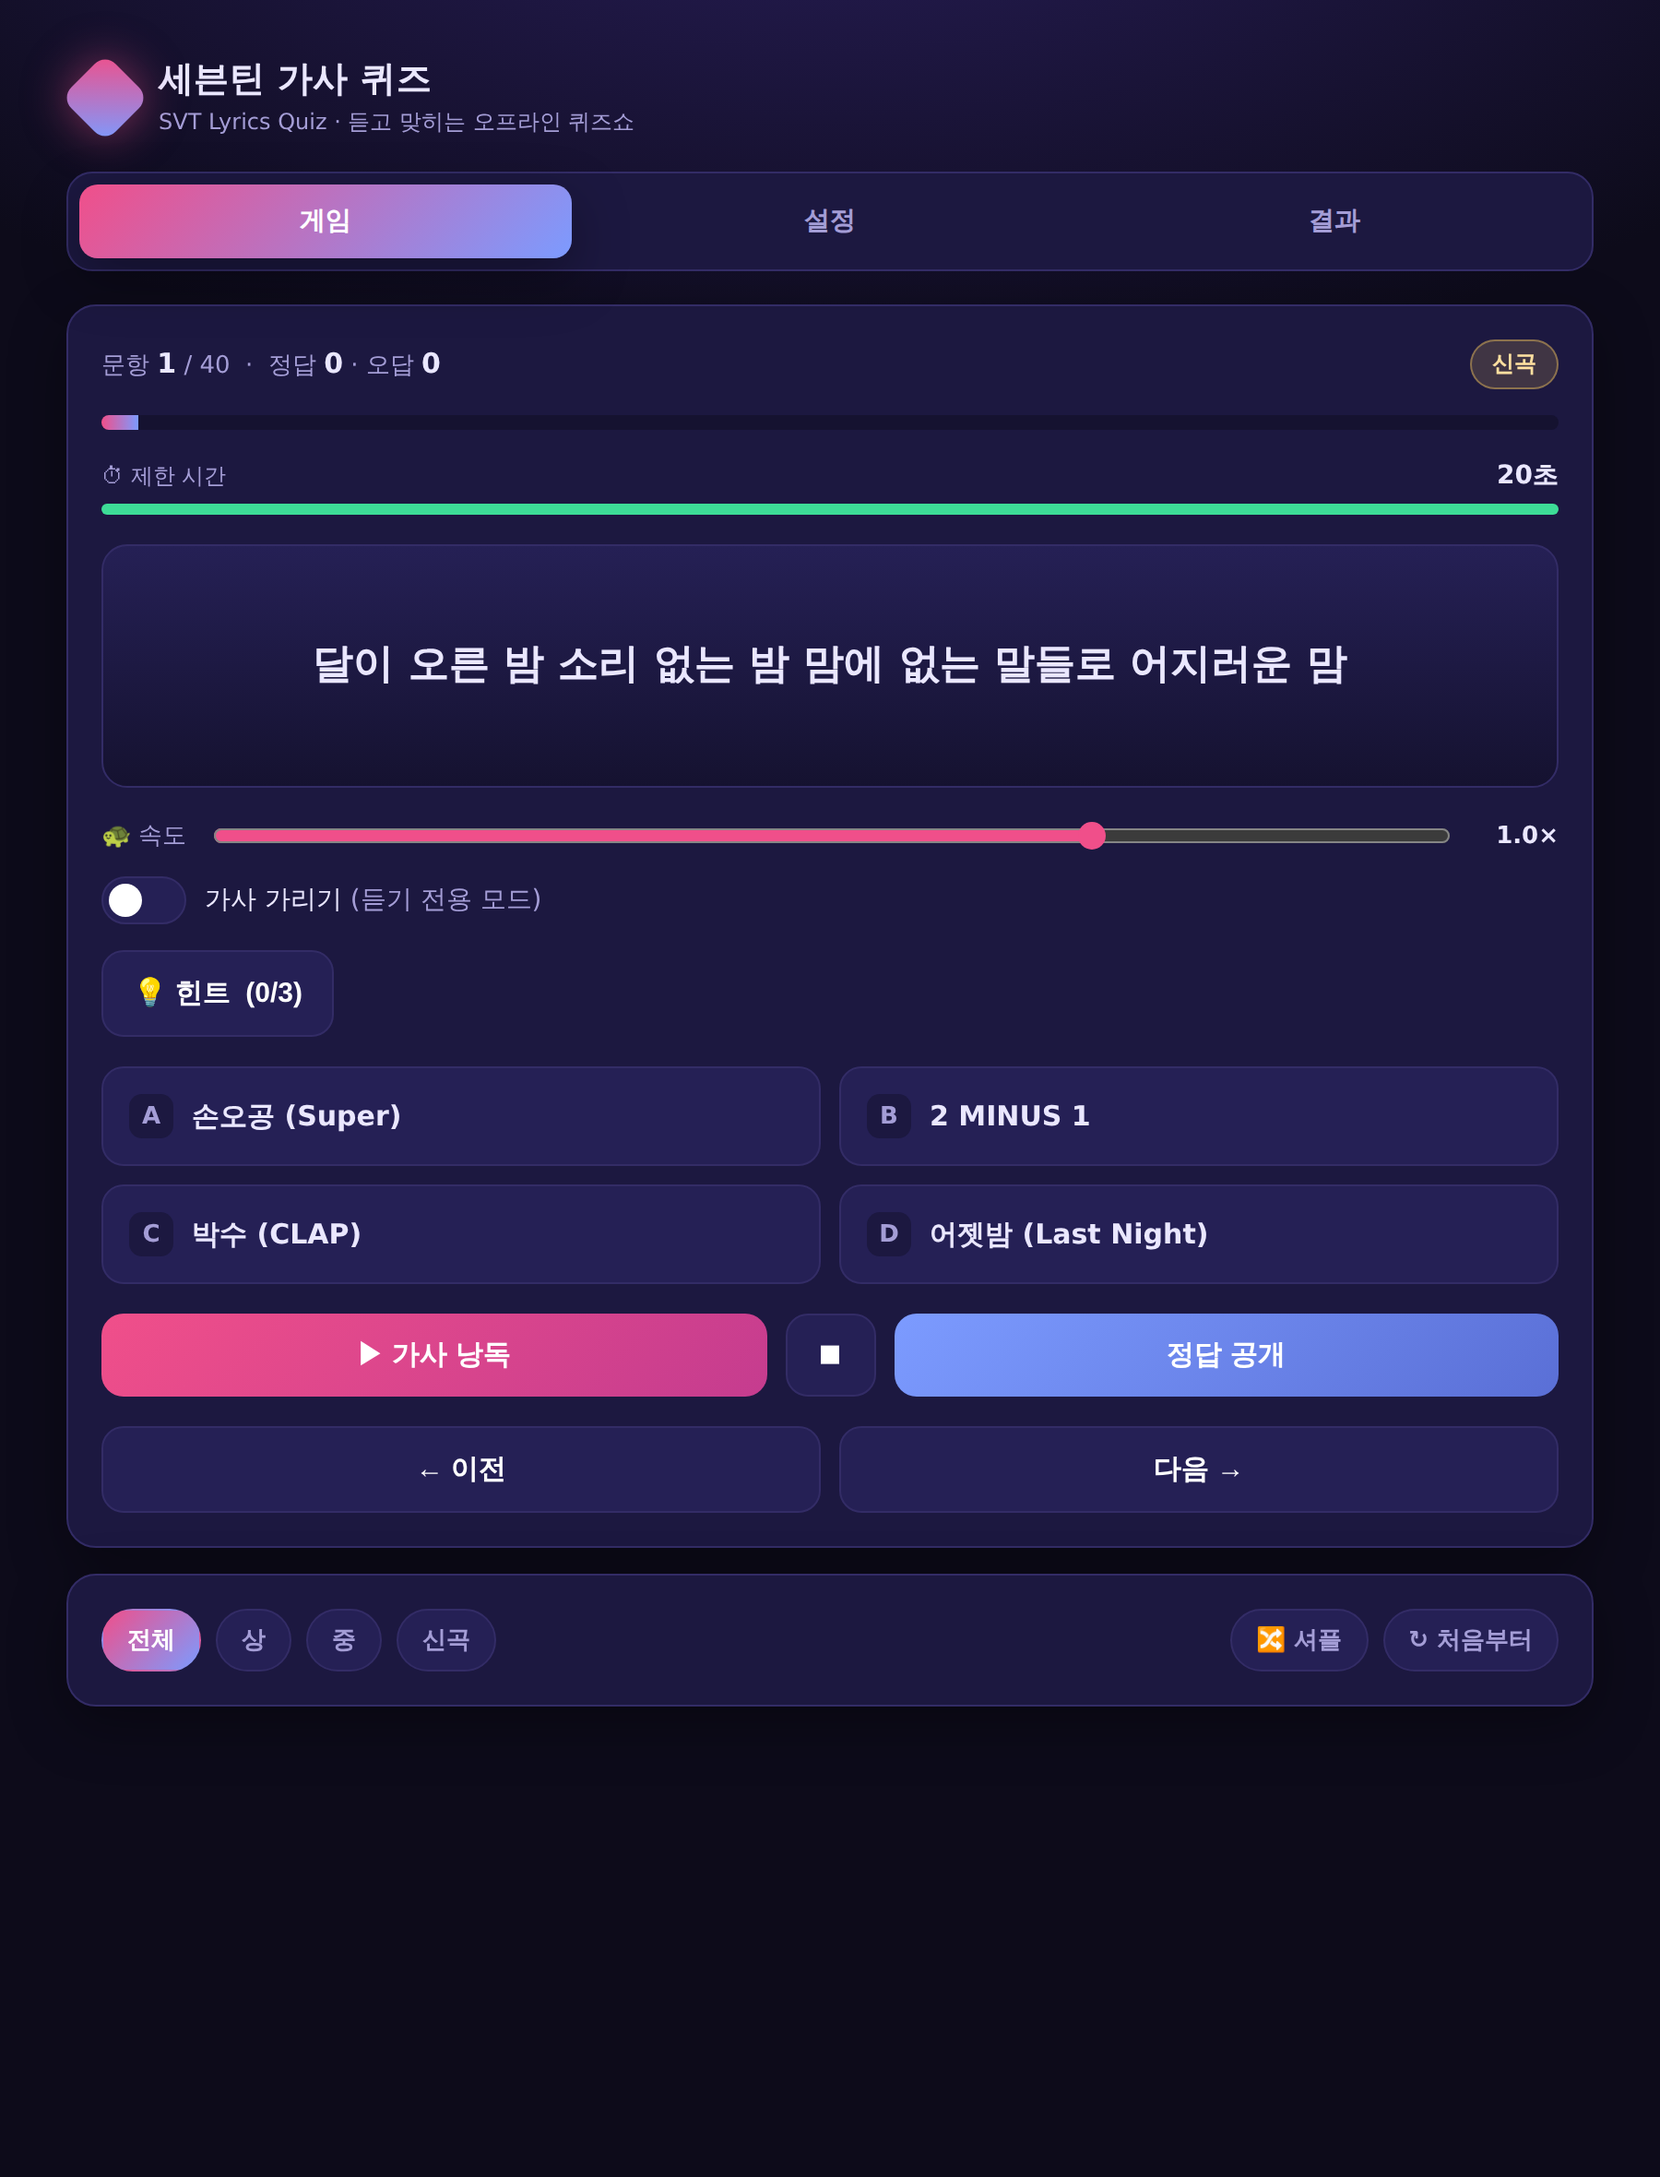
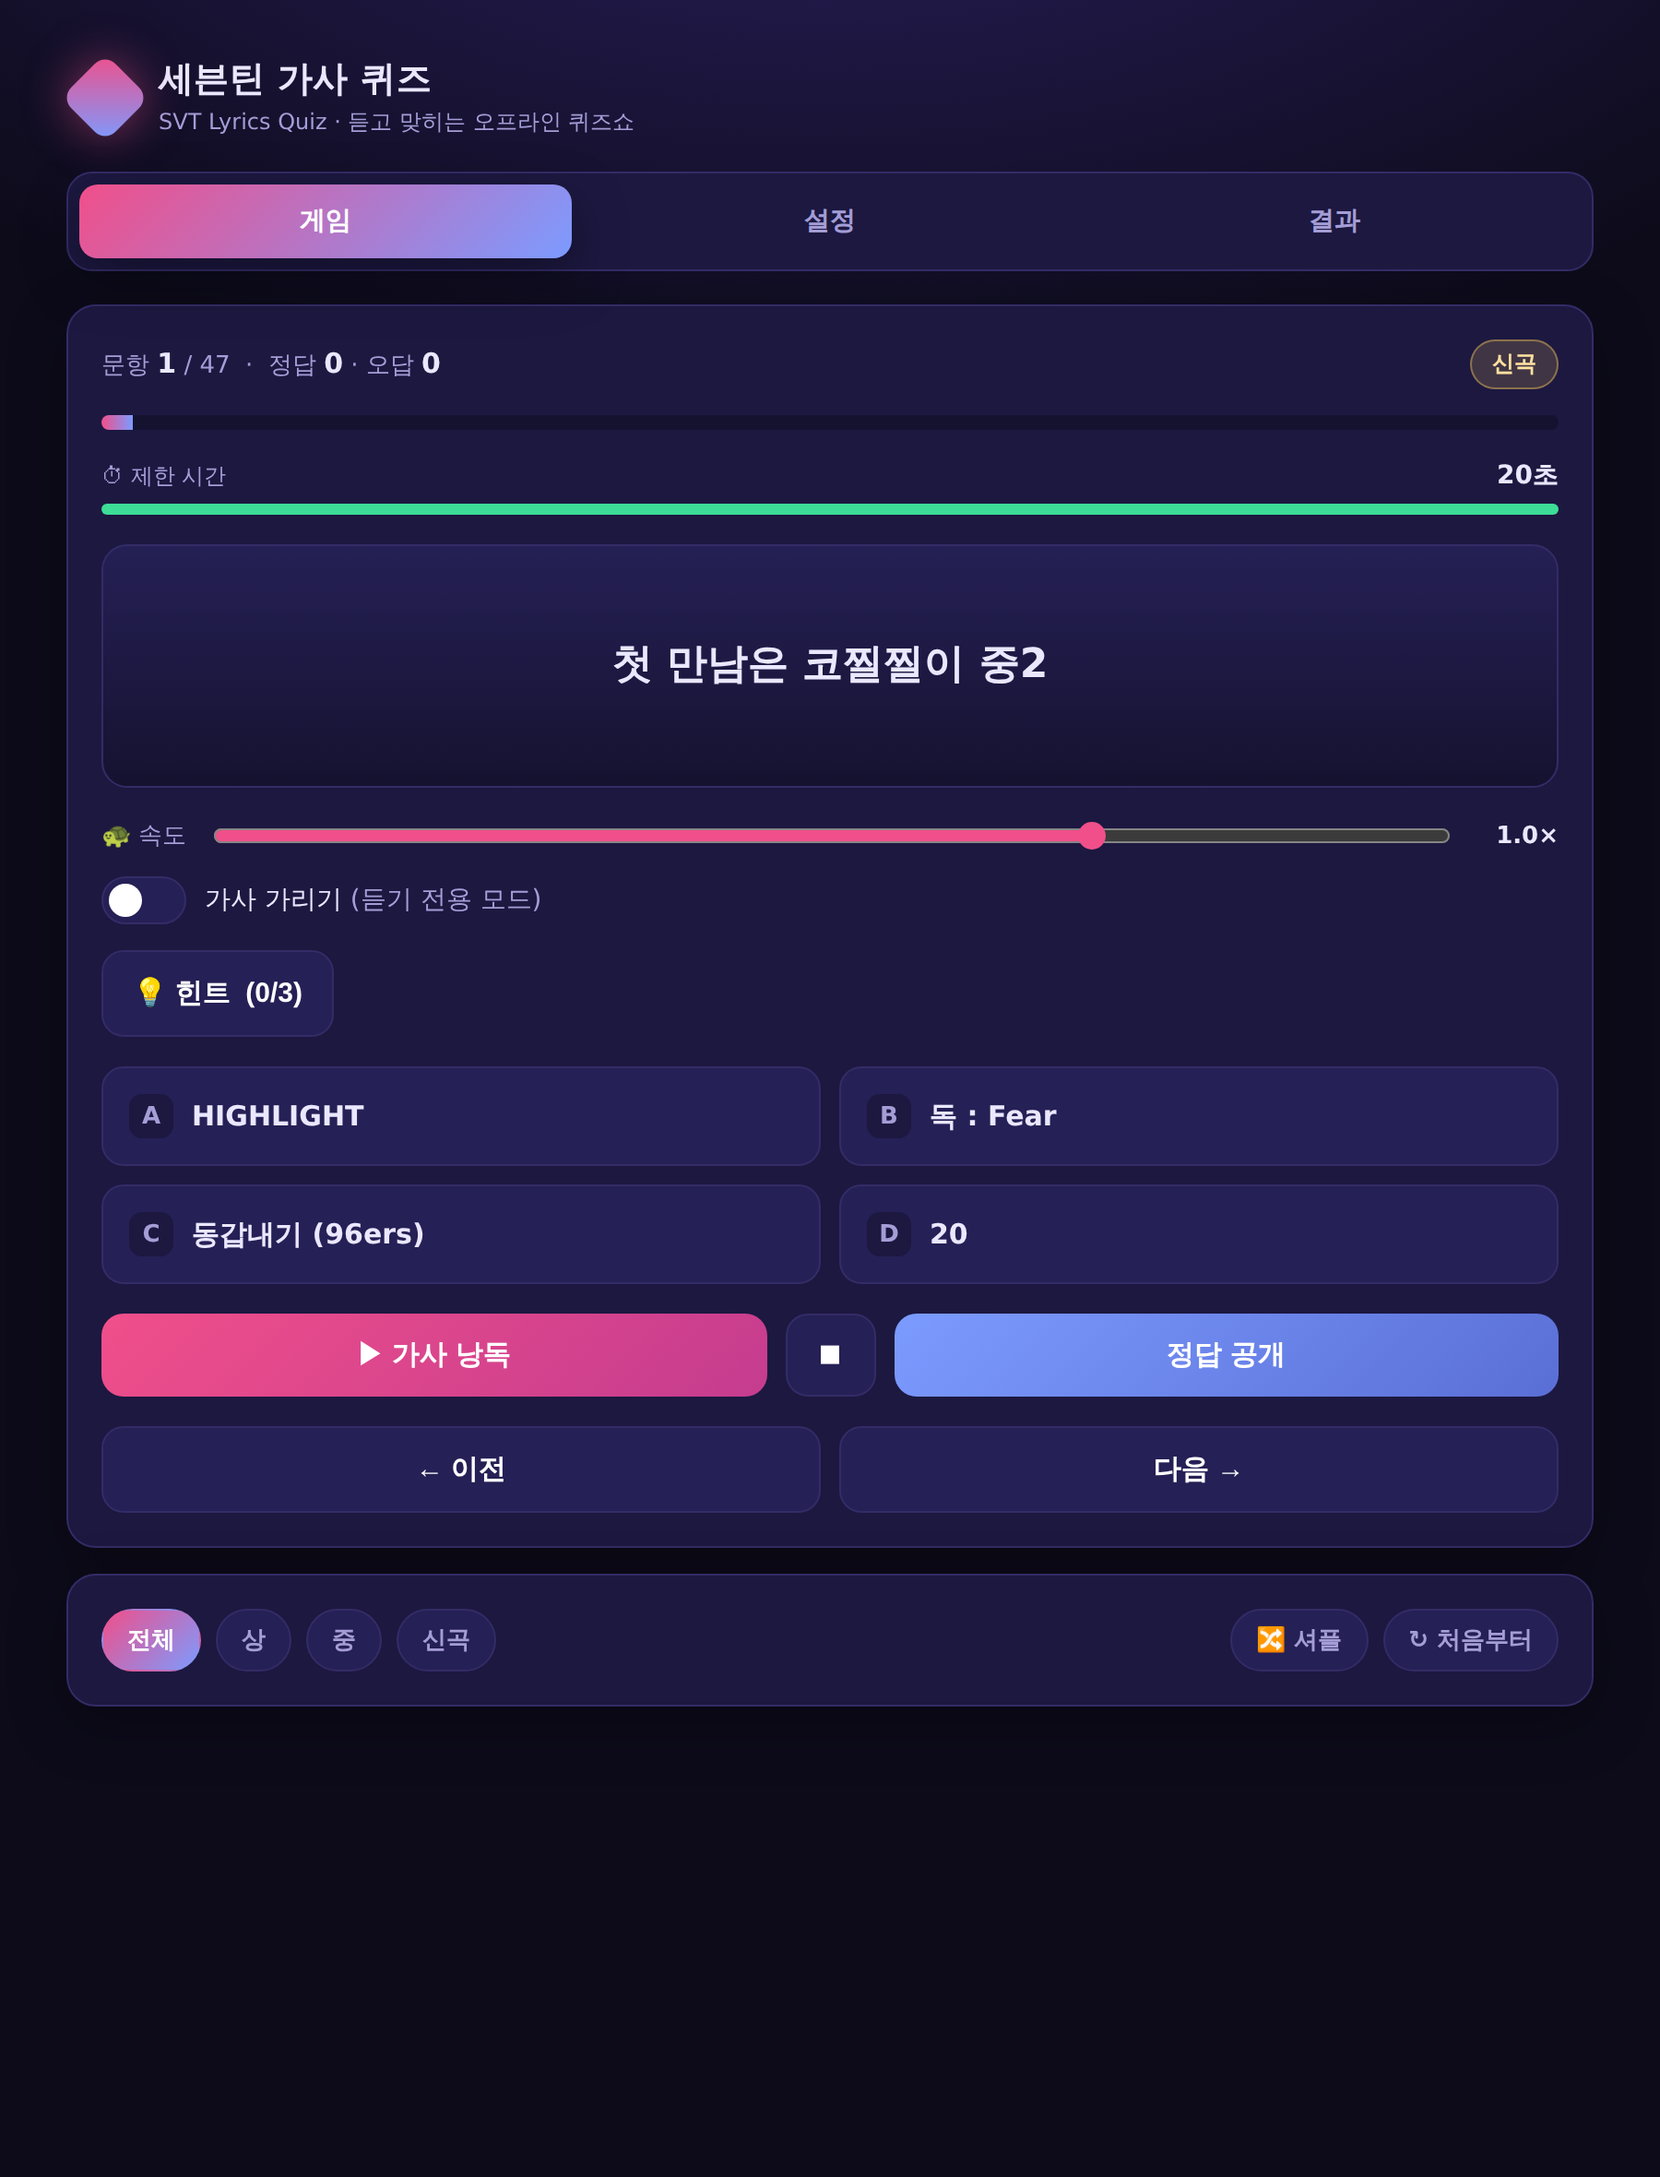
data: 유닛·페어링·솔로 7곡 확장 (공식 MV 기준) → 총 47문항
웹서치 병렬 조사로 한국어 가사 + 공식 MV(HYBE LABELS)가 확인된 곡만 추가:
- 부석순 「거침없이 (Just do it)」 (2018) YGXiVHTy0JE
- SVT LEADERS 「CHEERS (건배)」 (2022) RnO0HhILXi4
- 원우X민규 「Bittersweet (feat. 이하이)」 (2021) gvdACvfuGFA
- 호시 「Spider」 (2021) eOOsAeOx5a0
- 디에잇 「나란히 (Side By Side)」 (2021) e5bqgvfz84E
- 도겸 「You're My Christmas」 (2021) mHJNduifECM
- 호시X우지 「동갑내기 (96ers)」 (2025) rEBHjYQ8HoI

- 제외: 영어곡(Ruby·Black Eye·CxM 5,4,3), MV 없음(BSS Lunch), 비공식 리업로드
- isUnitSong에 LEADERS·솔로·멤버 페어링(X) 인식 추가 → 유닛 가중 출제 반영
- 상 19 / 중 21 / 신곡 7, 전곡 공식 MV 보유
- svt-data.json rev 갱신, README·데이터 스펙·CHANGELOG 갱신, 스크린샷 재생성
- Playwright 51항목 통과(총 47·상 19 반영), 콘솔 에러 0

Claude-Session: https://claude.ai/code/session_01BoVUxZZ7QKP6hKgrZ25vGv

diff --git a/index.html b/index.html
@@ -598,6 +598,14 @@ const DEFAULT_SONGS = [
   {id:"s46", name:"엄지척 (Chuck)", part:"1절 벌스", diff:"중"},
   {id:"s47", name:"Fire", part:"1절 벌스", diff:"상"},
   {id:"s48", name:"Network Love", part:"1절 벌스 · 유닛", diff:"상"},
+  // 유닛·솔로 확장 (3차) — 공식 MV 보유 서브유닛·페어링·솔로곡
+  {id:"s50", name:"거침없이 (Just do it)", part:"1절 벌스 · 부석순", diff:"상"},
+  {id:"s51", name:"CHEERS (건배)", part:"1절 벌스 · SVT LEADERS", diff:"상"},
+  {id:"s52", name:"Bittersweet (feat. 이하이)", part:"벌스 · 원우X민규", diff:"상"},
+  {id:"s53", name:"Spider", part:"벌스 · 호시 솔로", diff:"상"},
+  {id:"s54", name:"나란히 (Side By Side)", part:"1절 벌스 · 디에잇 솔로", diff:"상"},
+  {id:"s55", name:"You're My Christmas", part:"1절 벌스 · 도겸 솔로", diff:"중"},
+  {id:"s56", name:"동갑내기 (96ers)", part:"1절 벌스 · 호시X우지", diff:"신곡"},
 ];
 
 /* ---- 기본 콘텐츠 ----
@@ -645,6 +653,13 @@ const DEFAULT_CONTENT = {
   s46: {lyrics:"무대만 서도 시선은 끌었지 반응에 반응해 온몸은 땀 범벅임", mv:"https://youtu.be/U3fSv7ZEoTs?si=EelOF-o0pkVf1vGX", time:"0:08"},
   s47: {lyrics:"조심해 손 델라 눈떠도 코 베인다", mv:"https://youtu.be/l3fh_AgFY44?si=pD_ofj2lpywuXvup", time:"0:07"},
   s48: {lyrics:"너무 멀어 우리의 거리 이렇게라도 너를 만난 기적", mv:"https://youtu.be/4GWunY73yzU", time:"0:08"},
+  s50: {lyrics:"근심걱정 가득 찬 세상살이 걷어차 걷어차 걷어차", mv:"https://youtu.be/YGXiVHTy0JE", time:"0:12"},
+  s51: {lyrics:"우린 지하 방에서 건물을 올리지", mv:"https://youtu.be/RnO0HhILXi4", time:"0:32"},
+  s52: {lyrics:"진심을 숨기고서 괜찮은 척 빗속에 난 숨어 늘 웃고 있어", mv:"https://youtu.be/gvdACvfuGFA", time:"1:07"},
+  s53: {lyrics:"난 느낄 수 있어 내가 위험하단 걸 도망칠 수 없단 걸", mv:"https://youtu.be/eOOsAeOx5a0", time:"0:30"},
+  s54: {lyrics:"나의 마음을 너에게 다 주고 싶지만 나는 왜 네 앞에 서면 말을 못 할까", mv:"https://youtu.be/e5bqgvfz84E", time:"0:18"},
+  s55: {lyrics:"하얀 눈이 쌓인 고요한 밤 별빛마저 우릴 비추죠", mv:"https://youtu.be/mHJNduifECM", time:"0:08"},
+  s56: {lyrics:"첫 만남은 코찔찔이 중2", mv:"https://youtu.be/rEBHjYQ8HoI", time:"0:12"},
 };
 
 const DEFAULT_CONFIG = {
@@ -666,8 +681,10 @@ const ALBUM_INFO = {
   s32:{year:2023,type:"싱글"}, s41:{year:2018,type:"미니"}, s42:{year:2020,type:"미니"},
   s43:{year:2018,type:"스페셜"}, s46:{year:2016,type:"정규"},
   s33:{year:2024,type:"베스트"}, s34:{year:2024,type:"베스트"}, s36:{year:2024,type:"싱글"},
-  s37:{year:2025,type:"싱글"}, s39:{year:2025,type:"정규"}, s40:{year:2024,type:"베스트"}
-
+  s37:{year:2025,type:"싱글"}, s39:{year:2025,type:"정규"}, s40:{year:2024,type:"베스트"},
+  s50:{year:2018,type:"싱글"}, s51:{year:2022,type:"정규"}, s52:{year:2021,type:"디지털 싱글"},
+  s53:{year:2021,type:"디지털 싱글"}, s54:{year:2021,type:"디지털 싱글"}, s55:{year:2021,type:"디지털 싱글"},
+  s56:{year:2025,type:"싱글"}
 };
 
 /* 4지선다 오답 보기용 세븐틴 곡명 풀 (웹서치로 확보한 실제 곡 · 정답 40곡과 함께 사용) */
@@ -957,7 +974,7 @@ function pickMc(i){
   showAnswer();
 }
 
-function isUnitSong(s){ return /팀|부석순|유닛|정한/.test((s&&s.part)||""); }
+function isUnitSong(s){ return /팀|부석순|유닛|정한|LEADERS|솔로|[가-힣]X[가-힣]/.test((s&&s.part)||""); }
 function buildOrder(filter, shuffle){
   let list=songs.map(s=>s.id);
   if(filter && filter!=="all") list=list.filter(id=>songById(id).diff===filter);

diff --git a/README.md b/README.md
@@ -60,7 +60,7 @@
 
 1. 이 저장소의 **`index.html`** 을 내려받아 **Chrome 또는 Edge**로 엽니다.
    (한국어 TTS 음성 엔진 안정성 때문에 Chrome/Edge를 권장합니다.)
-2. **40문항이 기본 내장**되어 있어 바로 플레이할 수 있습니다.
+2. **47문항이 기본 내장**되어 있어 바로 플레이할 수 있습니다.
 3. 사회자 화면을 참가자와 공유(미러링·프로젝터)하고 **가사 가리기**를 켜면 듣기 전용 모드가 됩니다.
 
 > 별도 설치·인터넷 연결이 없어도 게임 로직은 동작합니다. (MV 재생만 인터넷 필요)
@@ -111,7 +111,7 @@ https://alfira0526.github.io/SVT_Lyrics/
 
 ## 📝 문항 구성
 
-- 총 **40문항** (상 14 / 중 20 / 신곡 6) — 전곡 가사·영상 입력, 유닛곡 다수 포함
+- 총 **47문항** (상 19 / 중 21 / 신곡 7) — 전곡 가사·영상 입력, 서브유닛·페어링·솔로곡 대폭 보강
 - 초기 앨범 수록곡·유닛곡·솔로곡·최신곡을 두루 포함해 코어 팬을 변별
 - 타이틀곡 후렴을 지양하고 **벌스·랩·브릿지** 위주로 파트를 선정 (곡명이 가사에 나오는 구간은 배제)
 - **▶ 시작하기 → 기본 설정 화면**에서 **문제 수를 골라 랜덤 출제**할 수 있고, **유닛곡 비중 높이기**로 유닛곡을 더 자주 뽑을 수 있습니다
@@ -140,7 +140,7 @@ https://alfira0526.github.io/SVT_Lyrics/
   이 파일을 저장소에 **커밋**하면 배포된 웹 페이지의 **기본값**에 반영됩니다. (자세한 흐름은 아래 참고)
 - **불러오기(파일)** — 내려받은 슬롯/`svt-data.json`을 붙여넣어 복원(기기 간 이동·백업)
 - **일괄 입력** — `1. 가사` 형식 텍스트를 붙여넣어 슬롯에 자동 배분
-- **기본값 복원** — 내장 40문항·설정으로 초기화
+- **기본값 복원** — 내장 47문항·설정으로 초기화
 
 > 게임 옵션(문제 수·타이머·팀전·4지선다)은 **▶ 시작하기 → 기본 설정 화면**에 모여 있고,
 > 설정 탭에는 **곡·가사 편집**과 **저장 슬롯**만 남겨 웹 기반 관리를 단순화했습니다.
@@ -156,9 +156,9 @@ https://alfira0526.github.io/SVT_Lyrics/
 > ℹ `svt-data.json` 로드는 **GitHub Pages 등 http(s) 호스팅**에서 동작합니다.
 > `file://`로 직접 열거나 htmlpreview 링크에서는 파일 내장 기본값이 사용됩니다.
 
-> 🎬 **영상/음원 링크 — 40곡 전곡 등록 완료.** 공식 MV가 있으면 MV를, 없으면 공식 오디오(음원)를 사용했고,
-> 그마저 없는 6곡(Habit · My I · Imperfect Love · March · 칠리 · Network Love)은 **가사 영상(비공식)** 으로 채웠습니다.
-> 비공식 영상은 삭제될 수 있고 자동 검증이 어려우니 **리허설 때 재생 확인**을, 필요하면 설정 탭에서 교체를 권장합니다.
+> 🎬 **영상/음원 링크 — 47곡 전곡 등록 완료.** 공식 MV가 있으면 MV를, 없으면 공식 오디오(음원)나 가사 영상을 사용했습니다.
+> 신규 유닛·솔로곡(거침없이·CHEERS·Bittersweet·Spider·나란히·You're My Christmas·동갑내기)은 **공식 MV**로 등록했습니다.
+> 링크는 삭제·변경될 수 있으니 **리허설 때 재생 확인**을, 필요하면 설정 탭에서 교체를 권장합니다.
 
 데이터 구조와 JSON 스키마는 **[데이터 스펙 문서](docs/DATA_SPEC.md)** 를 참고하세요.
 

diff --git a/docs/DATA_SPEC.md b/docs/DATA_SPEC.md
@@ -63,7 +63,7 @@
   ```
 - **저장 슬롯** — 현재 구성을 이름 붙여 여러 벌 저장/불러오기(이 기기 보관, 🔒 비밀번호 `19950719`)
 - **불러오기(파일)** — 내려받은 슬롯/`svt-data.json`을 붙여넣어 복원(기기 간 이동)
-- **기본값 복원** — 내장 40문항·설정으로 초기화
+- **기본값 복원** — 내장 47문항·설정으로 초기화
 
 ---
 
@@ -83,11 +83,11 @@
 
 ---
 
-## 4. 기본 내장 곡 목록 (40문항)
+## 4. 기본 내장 곡 목록 (47문항)
 
 > 가사 발췌는 저작권을 고려해 문서에는 싣지 않았습니다. 앱 설정 탭에서 확인·편집할 수 있습니다.
 
-### 상 (14)
+### 상 (19)
 | # | 곡명 | 파트 |
 |---|---|---|
 | 1 | 13월의 춤 (Lilili Yabbay) | 브릿지 · 퍼포먼스팀 |
@@ -104,8 +104,13 @@
 | 12 | 칠리 (Chilli) | 랩 파트 · 힙합팀 |
 | 13 | Fire | 1절 벌스 |
 | 14 | Network Love | 1절 벌스 · 유닛 |
+| 15 | 거침없이 (Just do it) | 1절 벌스 · 부석순 |
+| 16 | CHEERS (건배) | 1절 벌스 · SVT LEADERS |
+| 17 | Bittersweet (feat. 이하이) | 벌스 · 원우X민규 |
+| 18 | Spider | 벌스 · 호시 솔로 |
+| 19 | 나란히 (Side By Side) | 1절 벌스 · 디에잇 솔로 |
 
-### 중 (20)
+### 중 (21)
 | # | 곡명 | 파트 |
 |---|---|---|
 | 1 | 아낀다 (Adore U) | 1절 벌스 |
@@ -128,8 +133,9 @@
 | 18 | Left & Right | 1절 벌스 |
 | 19 | 고맙다 (Thanks) | 1절 벌스 |
 | 20 | 엄지척 (Chuck) | 1절 벌스 |
+| 21 | You're My Christmas | 1절 벌스 · 도겸 솔로 |
 
-### 신곡 (6)
+### 신곡 (7)
 | # | 곡명 | 파트 |
 |---|---|---|
 | 1 | MAESTRO | 1절 벌스 · 2024 |
@@ -138,3 +144,4 @@
 | 4 | CBZ (Prime time) | 랩 파트 · 부석순 2025 |
 | 5 | THUNDER | 1절 벌스 · 정규 5집 |
 | 6 | 청춘찬가 (Cheers to Youth) | 1절 벌스 · 보컬팀 |
+| 7 | 동갑내기 (96ers) | 1절 벌스 · 호시X우지 |

diff --git a/CHANGELOG.md b/CHANGELOG.md
@@ -2,6 +2,20 @@
 
 이 프로젝트의 주요 변경 사항을 기록합니다.
 
+## [1.3.0] — 유닛·솔로곡 7곡 확장 (공식 MV 기준)
+- 서브유닛·페어링·솔로 신규 7곡 추가 → **총 47문항** (상 19 / 중 21 / 신곡 7)
+  · 부석순 「거침없이(Just do it)」, SVT LEADERS 「CHEERS」, 원우X민규 「Bittersweet」,
+    호시 「Spider」, 디에잇 「나란히(Side By Side)」, 도겸 「You're My Christmas」, 호시X우지 「동갑내기(96ers)」
+  · 웹서치 3중 병렬 조사로 **한국어 가사 + 공식 MV(HYBE LABELS 채널)** 확인, 제목 미포함 벌스/랩 클루 선정
+  · 영어곡(Ruby·Black Eye·CxM 5,4,3)·MV 없는 곡(BSS Lunch)·비공식 리업로드는 제외
+- 유닛 가중치 판정(`isUnitSong`)에 LEADERS·솔로·멤버 페어링(X) 인식 추가
+- README·데이터 스펙 곡 목록·개수 갱신, svt-data.json rev 갱신(배포 동기화)
+
+## [1.2.0] — 흐름 재구성 · 저장 일원화 · 자동 낭독 · 최종 데이터
+- 랜딩 → 기본 설정(게임 옵션) 화면 → 게임 시작 흐름, 저장 기능 저장 슬롯으로 일원화
+- 기본 설정 화면 옵션별 안내 문구(토스 톤), 문항 전환 시 2초 뒤 TTS 자동 낭독
+- 최종 가사·타임스탬프·영상 링크 반영(40곡 확정), 타이머 20초·4지선다 기본 ON
+
 ## [1.1.0] — 문서 보강 · 곡 정리 · 음원 링크 확충
 - 미확보 8곡(Trauma·Space·Shhh·박수·어쩌나·거침없이·Spell·Bad Influence) 제거 → **40곡 전곡 가사 입력**
 - MV 없는 곡에 **공식 오디오 링크 보강** → 영상/음원 링크 34/40곡 (바람개비·청춘찬가는 공식 MV, Kidult·우리의 새벽·엄지척·Fire는 공식 오디오)
